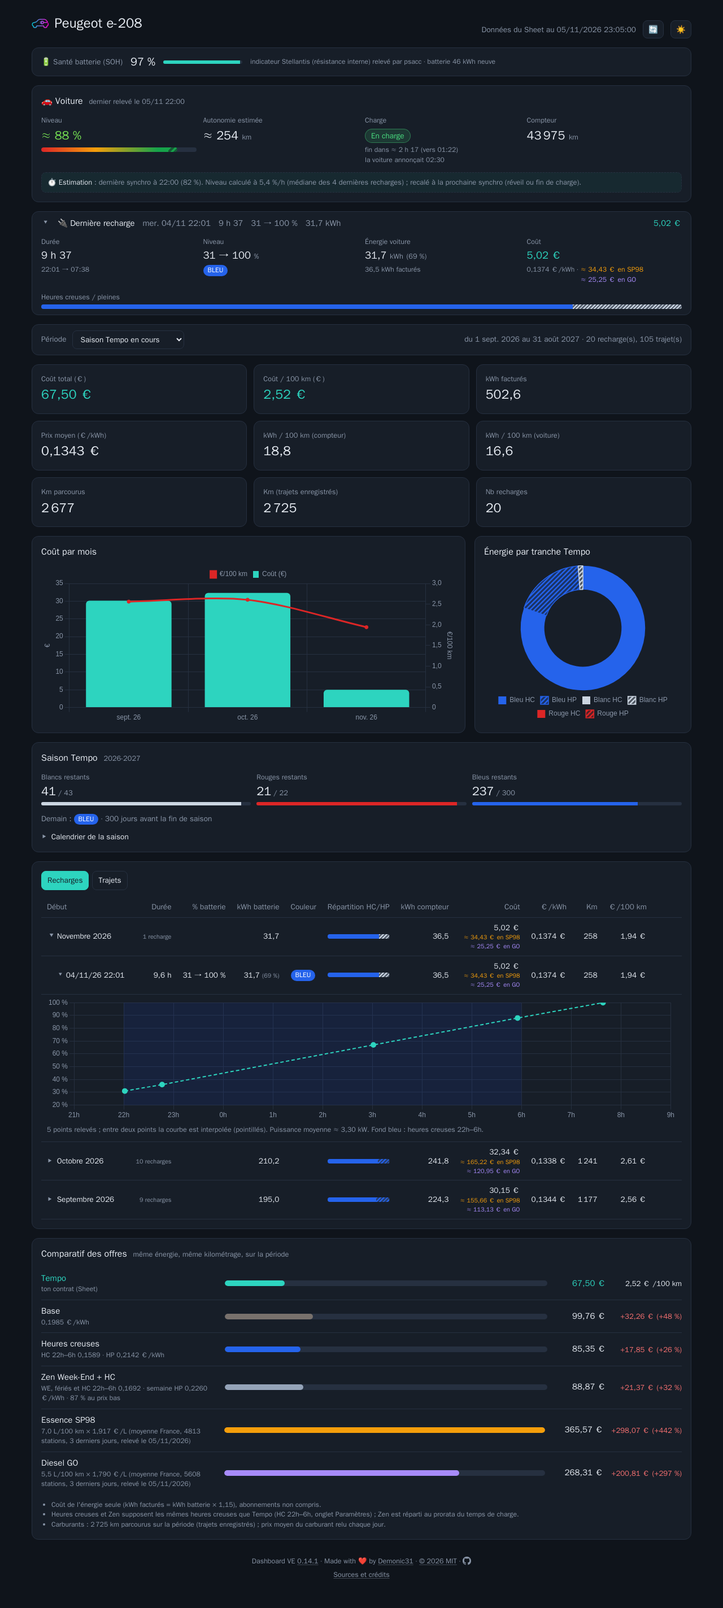
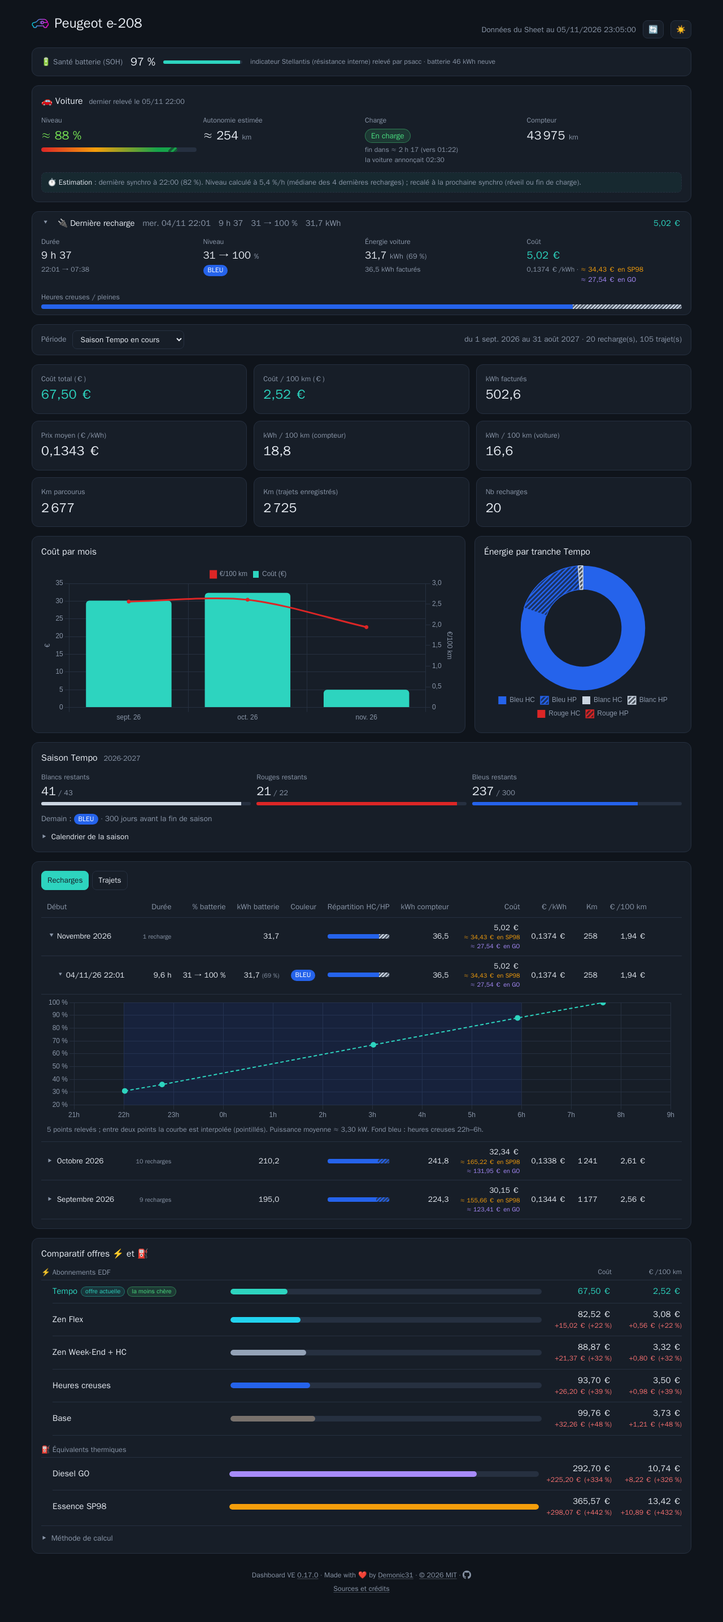
feat(dashboard): offre Zen Flex et calendrier des jours Sobriété
- Nouvelle offre Zen Flex dans le comparatif : 17 h creuses par jour, jours Éco 🟢
  et Sobriété 🟠, quatre prix ZEN_FLEX_{ECO,SOB}_{HC,HP}_PRICE_KWH.
- FlexDays : calendrier Éco / Sobriété / Bonus lu dans l'API du site EDF (getOPMStatut,
  urlPlaasmaCommerce obligatoire) ; J et J+1 toutes les 10 min, rattrapage de l'historique
  depuis novembre 2023 (30 jours par passe, jours possibles seulement), gardé dans
  /data/zen-flex-days.json ; réponse non JSON ou code inconnu jamais interprétés.
- Jour pas encore lu : couleur Tempo (Rouge = Sobriété).
- Répartition de la période dans l'info-bulle des deux offres Zen ; calcul de
  Zen Week-End + HC aligné sur les autres offres (recharge sans heure de fin).
- Sources et crédits, méthode de calcul, README, .env.example, docker-compose.yml.
- Captures du README régénérées (jeu de démo avec Zen Flex et gazole à 6 L/100 km).

Refs #57

diff --git a/web/static/app.js b/web/static/app.js
@@ -163,6 +163,10 @@ function renderSources() {
     item("Google Sheet", "calcul des coûts (recharges, trajets, indicateurs, totaux par mois)", data.fetched_at ? `relu le ${stamp(data.fetched_at)}` : ""),
     item(`Tempo : ${link("https://www.api-couleur-tempo.fr", "api-couleur-tempo.fr")}`, "couleur des jours et saison Tempo",
       data.season?.fetched_at ? `relu le ${stamp(data.season.fetched_at)}` : ""),
+    data.offers?.flex_days ? item(`Zen Flex : ${link("https://particulier.edf.fr/fr/accueil/electricite-gaz/zen-flex.html", "particulier.edf.fr")}`,
+      "calendrier des jours Éco, Sobriété et Bonus (API du site EDF, non documentée)",
+      data.offers.flex_days.fetched_at ? `relu le ${stamp(data.offers.flex_days.fetched_at)} (${Object.keys(data.offers.flex_days.days).length} jours connus)`
+        : esc(data.offers.flex_days.error || "")) : "",
     item(`Carburants : ${link("https://www.prix-carburants.gouv.fr/rubrique/opendata/", "prix-carburants.gouv.fr")}`,
       "prix moyens du jour et archives journalières officielles" + (days ? ` (${days} jour${days > 1 ? "s" : ""} de recharge)` : ""), ...fuelLines),
   ].join("");
@@ -332,9 +336,6 @@ function lowShare(r, isLow) {
 }
 const hourOf = d => d.getHours() + d.getMinutes() / 60;
 const inHours = (h, [a, b]) => a > b ? h >= a || h < b : h >= a && h < b;
-// Zen Week-End + HC : prix bas le week-end, les jours fériés et en heures creuses (celles de Tempo) en semaine
-const zenLowShare = r => lowShare(r, d => inHours(hourOf(d), data.hc_hours.map(Number)) ||
-                                       d.getDay() === 0 || d.getDay() === 6 || isHoliday(d));
 // Option Heures creuses, plages saisonnalisées (Enedis, déploiement fin 2025 – 2027 ; 8 h de HC par jour).
 // Plages réelles fixées pour chaque compteur Linky : on retient 23h–7h l'hiver, et l'été 5 h la nuit (1h–6h)
 // plus 3 h l'après-midi (placées dans la fenêtre 11h–17h, sans effet sur des recharges de nuit).
@@ -343,6 +344,24 @@ const HCHP_SEASONS = { winter: { emoji: "❄", months: "nov.–mars", hours: 
 const hchpSeason = d => d.getMonth() >= 3 && d.getMonth() <= 9 ? HCHP_SEASONS.summer : HCHP_SEASONS.winter;
 const hchpLow = d => hchpSeason(d).hours.some(h => inHours(hourOf(d), h));
 const hoursLabel = hours => hours.map(([a, b]) => `${a}h–${b % 24}h`).join(", ").replace(/, ([^,]*)$/, " et $1");
+// Zen Flex : mêmes plages tous les jours (HP 8h–13h et 18h–20h, 17 h creuses) ; 20 jours Sobriété par an en semaine,
+// annoncés la veille. Calendrier lu par le serveur dans l'API EDF (offers.flex_days : {jour: eco|sobriete|bonus}) ;
+// un jour Sobriété n'est possible qu'en semaine, du 15 octobre au 15 avril ; un jour possible pas encore relu est
+// approché par la couleur Tempo (Rouge = Sobriété)
+const FLEX_HC = [[0, 8], [13, 18], [20, 24]];
+const flexHc = d => FLEX_HC.some(h => inHours(hourOf(d), h));
+const flexPossible = day => { const d = new Date(day + "T12:00:00"), md = day.slice(5);
+  return d.getDay() % 6 !== 0 && !isHoliday(d) && (md <= "04-15" || md >= "10-15"); };
+function flexSobriety() {
+  const known = data.offers?.flex_days?.days || {};
+  const red = new Set((data.colors || []).filter(c => c.color === "ROUGE").map(c => c.day));
+  const guessed = new Set();  // jours approchés par Tempo
+  return { guessed, isSob: day => {
+    if (!flexPossible(day)) return false;
+    if (day in known) return known[day] === "sobriete";
+    guessed.add(day); return red.has(day);
+  } };
+}
 
 // Tarif Tempo en vigueur à une date (dernière ligne de la grille du Sheet dont la date d'effet est passée) :
 // une ligne par couleur, HP puis HC
@@ -385,13 +404,58 @@ function renderOffers() {
            "\nPlages indicatives : les heures creuses sont fixées par Enedis pour chaque compteur Linky (voir Méthode de calcul)",
            hcKwh * o.hchp.hc + hpKwh * o.hchp.hp, "--bleu")
     : { name: "Heures creuses", missing: "HCHP_HC_PRICE_KWH / HCHP_HP_PRICE_KWH", group: "elec" });
+  // part de chaque catégorie d'une offre sur la période, en %, catégories vides omises
+  const split = (kwh, labels) => { const tot = kwh.reduce((a, b) => a + b, 0);
+    return tot ? "\n" + labels.map((l, i) => [Math.round(100 * kwh[i] / tot), l]).filter(([p]) => p)
+      .map(([p, l]) => `${p} % ${l}`).join(", ") + " sur la période" : ""; };
   if (o.zen?.low && o.zen?.high) {
-    let cost = 0;
-    rows.forEach(r => { const share = zenLowShare(r) ?? 1, kwh = num(r[C.kwh]);
-      cost += kwh * (share * o.zen.low + (1 - share) * o.zen.high); });
+    // kWh facturés répartis au prorata du temps de charge : semaine HC, week-end ou férié, semaine HP ;
+    // sans heure de fin, jour de début et tranches HC/HP Tempo de la recharge
+    const zk = [0, 0, 0];
+    rows.forEach(r => {
+      const kwh = num(r[C.kwh]), w = [0, 0, 0], start = new Date(r[C.start]), end = new Date(r[2]), step = 5 * 60e3;
+      if (end > start) for (let t = start.getTime() + step / 2; t < end.getTime(); t += step) {
+        const d = new Date(t);
+        w[d.getDay() % 6 === 0 || isHoliday(d) ? 1 : inHours(hourOf(d), data.hc_hours.map(Number)) ? 0 : 2]++;
+      }
+      const n = w[0] + w[1] + w[2], bat = [0, 1, 2, 3, 4, 5].reduce((a, i) => a + num(r[C.slots + i]), 0);
+      const hc = bat ? (num(r[C.slots]) + num(r[C.slots + 2]) + num(r[C.slots + 4])) / bat : 1;
+      const f = n ? w.map(x => x / n) : start.getDay() % 6 === 0 || isHoliday(start) ? [0, 1, 0] : [hc, 0, 1 - hc];
+      f.forEach((x, i) => { zk[i] += kwh * x; });
+    });
     list.push(elec("Zen Week-End + HC", `💼 Semaine HP ${fr(o.zen.high, 4)} · ${hcLabel} ${fr(o.zen.low, 4)} €/kWh` +
-      `\n🏖 Week-end et jours fériés ${fr(o.zen.low, 4)} €/kWh toute la journée`, cost, "--blanc-hc"));
+      `\n🏖 Week-end et jours fériés ${fr(o.zen.low, 4)} €/kWh toute la journée` +
+      split(zk, ["en heures creuses", "le week-end ou un jour férié", "en heures pleines"]),
+      (zk[0] + zk[1]) * o.zen.low + zk[2] * o.zen.high, "--blanc-hc"));
   } else list.push({ name: "Zen Week-End + HC", missing: "ZEN_LOW_PRICE_KWH / ZEN_HIGH_PRICE_KWH", group: "elec" });
+  const fx = o.zen_flex;
+  if (fx && [...fx.eco, ...fx.sob].every(v => v)) {
+    // kWh facturés répartis au prorata du temps de charge entre HC/HP et jour Éco/Sobriété (5 min par 5 min) ;
+    // sans heure de fin, tranches Tempo de la recharge (Rouge = Sobriété)
+    const flex = flexSobriety();
+    let cost = 0;
+    const fk = [0, 0, 0, 0];
+    rows.forEach(r => {
+      const slots = [0, 1, 2, 3, 4, 5].map(i => num(r[C.slots + i]) * coef), kwh = slots.reduce((a, b) => a + b, 0);
+      const start = new Date(r[C.start]), end = new Date(r[2]), step = 5 * 60e3, w = [0, 0, 0, 0];  // éco HC/HP, sob HC/HP
+      if (end > start) for (let t = start.getTime() + step / 2; t < end.getTime(); t += step) {
+        const d = new Date(t), sob = flex.isSob(iso(d));
+        w[(sob ? 2 : 0) + (flexHc(d) ? 0 : 1)]++;
+      }
+      const n = w.reduce((a, b) => a + b, 0);
+      // sans heure de fin : tranches Tempo de la recharge, jour Sobriété selon le calendrier (Rouge sinon)
+      const sobDay = typeof r[C.start] === "string" && flex.isSob(r[C.start].slice(0, 10));
+      const k = n ? w.map(x => kwh * x / n) : sobDay ? [0, 0, slots[0] + slots[2] + slots[4], slots[1] + slots[3] + slots[5]]
+                                                  : [slots[0] + slots[2] + slots[4], slots[1] + slots[3] + slots[5], 0, 0];
+      cost += k[0] * fx.eco[0] + k[1] * fx.eco[1] + k[2] * fx.sob[0] + k[3] * fx.sob[1];
+      k.forEach((x, i) => { fk[i] += x; });
+    });
+    list.push(elec("Zen Flex", `🟢 Éco HP ${fr(fx.eco[1], 4)} · HC ${hoursLabel(FLEX_HC)} ${fr(fx.eco[0], 4)} €/kWh` +
+      `\n🟠 Sobriété HP ${fr(fx.sob[1], 4)} · HC ${fr(fx.sob[0], 4)} €/kWh` +
+      split(fk, ["en Éco HC", "en Éco HP", "en Sobriété HC", "en Sobriété HP"]) +
+      (flex.guessed.size ? `\nJours Sobriété : calendrier EDF, ${flex.guessed.size} jour(s) pas encore relu(s) approché(s) par Tempo (voir Méthode de calcul)`
+                         : "\nJours Sobriété : calendrier EDF (voir Méthode de calcul)"), cost, "--flex"));
+  } else list.push({ name: "Zen Flex", missing: "ZEN_FLEX_ECO_HC_PRICE_KWH / ZEN_FLEX_ECO_HP_PRICE_KWH / ZEN_FLEX_SOB_HC_PRICE_KWH / ZEN_FLEX_SOB_HP_PRICE_KWH", group: "elec" });
   (o.fuels?.length ? o.fuels : [{ key: "sp98", name: "SP98" }]).forEach(f => {
     const cur = f.current, color = f.key === "gazole" ? "--diesel" : "--petrol";
     if (num(f.l100) && cur && !cur.error)
@@ -438,7 +502,10 @@ function renderOffers() {
       les 3 h de l'après-midi placées arbitrairement dans la fenêtre 11h–17h, sans effet sur des recharges de nuit.
       Les heures creuses réelles sont fixées par Enedis pour chaque compteur Linky et diffèrent d'un logement à l'autre : le résultat reste une estimation.</li>
     <li>Zen suppose les mêmes heures creuses que Tempo (${hcLabel}, onglet Paramètres).</li>
-    <li>Heures creuses et Zen sont répartis au prorata du temps de charge.</li>
+    <li>Zen Flex : 17 h creuses par jour (HP 8h–13h et 18h–20h), et 20 jours Sobriété par an en semaine, de mi-octobre à mi-avril, annoncés la veille par EDF.
+      Leur calendrier est lu dans l'API du site EDF (non documentée, susceptible de changer) et gardé en cache ;
+      un jour pas encore relu est approché par la couleur Tempo (Rouge = Sobriété).</li>
+    <li>Heures creuses, Zen et Zen Flex sont répartis au prorata du temps de charge.</li>
     <li>€/100 km : Tempo selon l'indicateur du Sheet (km compteur entre recharges) ; les autres offres d'électricité au même kilométrage ; carburants = consommation × prix moyen.</li>
     <li>Coût des carburants : ${fr(km, 0)} km parcourus sur la période (${kmSource}) ; prix moyen du carburant relu chaque jour.</li></ul></details>`;
   el.querySelector("details").addEventListener("toggle", e => { offerNotesOpen = e.target.open; });

diff --git a/web/static/index.html b/web/static/index.html
@@ -16,19 +16,19 @@
   :root {
     --bg: #f4f6f9; --card: #ffffff; --text: #1d2430; --muted: #6b7585; --border: #e3e7ee;
     --accent: #0f766e; --bleu: #2563eb; --bleu-hc: #1e40af; --blanc: #94a3b8; --blanc-hc: #64748b; --blanc-txt: #475569;
-    --rouge: #dc2626; --rouge-hc: #991b1b; --base: #a8a29e; --petrol: #b45309; --diesel: #7c3aed; --good: #15803d; --bad: #b91c1c; --lvl-l: 40%;
+    --rouge: #dc2626; --rouge-hc: #991b1b; --base: #a8a29e; --petrol: #b45309; --diesel: #7c3aed; --flex: #0891b2; --good: #15803d; --bad: #b91c1c; --lvl-l: 40%;
     --shadow: 0 1px 3px rgba(15, 23, 42, .08); --logo: none; color-scheme: light;
   }
   @media (prefers-color-scheme: dark) {
     :root:not([data-theme="light"]) {
       --bg: #0f141b; --card: #171e28; --text: #e6ebf2; --muted: #8a96a8; --border: #263040;
-      --accent: #2dd4bf; --blanc: #cbd5e1; --blanc-hc: #94a3b8; --blanc-txt: #cbd5e1; --base: #78716c; --petrol: #f59e0b; --diesel: #a78bfa; --good: #4ade80; --bad: #f87171; --lvl-l: 60%;
+      --accent: #2dd4bf; --blanc: #cbd5e1; --blanc-hc: #94a3b8; --blanc-txt: #cbd5e1; --base: #78716c; --petrol: #f59e0b; --diesel: #a78bfa; --flex: #22d3ee; --good: #4ade80; --bad: #f87171; --lvl-l: 60%;
       --shadow: none; --logo: invert(1); color-scheme: dark;
     }
   }
   :root[data-theme="dark"] {
     --bg: #0f141b; --card: #171e28; --text: #e6ebf2; --muted: #8a96a8; --border: #263040;
-    --accent: #2dd4bf; --blanc: #cbd5e1; --blanc-hc: #94a3b8; --blanc-txt: #cbd5e1; --base: #78716c; --petrol: #f59e0b; --diesel: #a78bfa; --good: #4ade80; --bad: #f87171; --lvl-l: 60%;
+    --accent: #2dd4bf; --blanc: #cbd5e1; --blanc-hc: #94a3b8; --blanc-txt: #cbd5e1; --base: #78716c; --petrol: #f59e0b; --diesel: #a78bfa; --flex: #22d3ee; --good: #4ade80; --bad: #f87171; --lvl-l: 60%;
     --shadow: none; --logo: invert(1); color-scheme: dark;
   }
   * { box-sizing: border-box; }

diff --git a/web/dashboard_server.py b/web/dashboard_server.py
@@ -231,6 +231,107 @@ class TempoSeason:
             return {"error": str(exc)}
 
 
+# Calendrier Zen Flex : API (non documentée) du site particulier.edf.fr, jour J et J+1 pour une date donnée ;
+# urlPlaasmaCommerce est obligatoire (sans lui, page d'erreur HTML). Historique disponible depuis le lancement.
+ZEN_FLEX_API = "https://particulier.edf.fr/services/rest/opm/getOPMStatut"
+ZEN_FLEX_CODES = {"RAS": "eco", "ZENF_PM": "sobriete", "ZENF_BONIF": "bonus", "ZENF_BONUS": "bonus"}
+ZEN_FLEX_START = date(2023, 11, 1)
+
+
+def flex_candidate(day):
+    """Jour où un jour Sobriété est possible : en semaine, du 1er janvier au 15 avril ou du 15 octobre au 31 décembre."""
+    return day.weekday() < 5 and (day.month < 4 or (day.month == 4 and day.day <= 15)
+                                  or (day.month == 10 and day.day >= 15) or day.month > 10)
+
+
+class FlexDays:
+    """Type de chaque jour de l'option Zen Flex (eco, sobriete, bonus), lu dans l'API EDF.
+
+    Une tâche de fond relit toutes les 10 minutes J et J+1 (publié dans la journée), puis rattrape au plus 30 jours
+    manquants de l'historique, du plus récent au plus ancien, une requête par seconde ; seuls les jours où un jour
+    Sobriété est possible sont demandés (les autres sont Éco par règle). Les jours lus sont gardés dans
+    DATA_DIR/zen-flex-days.json ({jour: type}), table qui passera telle quelle en SQLite. Une réponse qui n'est pas
+    du JSON (pare-feu EDF) ou un code inconnu ne sont jamais interprétés : le jour reste inconnu, et la page se rabat
+    sur les jours Rouges Tempo.
+    """
+
+    def __init__(self, data_dir, interval=600, batch=30):
+        self.file = os.path.join(data_dir, "zen-flex-days.json") if data_dir else None
+        self.days, self.error, self.fetched_at = {}, None, None
+        self.interval, self.batch, self.lock = interval, batch, threading.Lock()
+        self.http = requests.Session()
+        self.http.headers["Accept"] = "application/json"
+        if self.file and os.path.isfile(self.file):
+            try:
+                with open(self.file, encoding="utf-8") as f:
+                    self.days = json.load(f)
+                log.info("jours Zen Flex : %d jour(s) en cache", len(self.days))
+            except (OSError, ValueError) as exc:
+                log.warning("jours Zen Flex : cache illisible (%s)", exc)
+        threading.Thread(target=self.loop, daemon=True, name="zen-flex").start()
+
+    def fetch(self, day):
+        """{jour: type} pour `day` et le lendemain (lendemain absent tant qu'il n'est pas publié)."""
+        resp = self.http.get(ZEN_FLEX_API, timeout=20, params={
+            "dateRelevant": day.isoformat(), "urlPlaasmaCommerce": "https://api-commerce.edf.fr"})
+        resp.raise_for_status()
+        if "json" not in resp.headers.get("Content-Type", ""):
+            raise ValueError("réponse non JSON (pare-feu EDF ?)")
+        payload = resp.json()
+        out = {}
+        for key, when in (("couleurJourJ", day), ("couleurJourJ1", day + timedelta(days=1))):
+            kind = ZEN_FLEX_CODES.get(payload.get(key))
+            if kind:
+                out[when.isoformat()] = kind
+        return out
+
+    def missing(self):
+        day, out = date.today() - timedelta(days=1), []
+        while day >= ZEN_FLEX_START and len(out) < self.batch:
+            if flex_candidate(day) and day.isoformat() not in self.days:
+                out.append(day)
+            day -= timedelta(days=1)
+        return out
+
+    def save(self):
+        if self.file:
+            tmp = self.file + ".tmp"
+            with open(tmp, "w", encoding="utf-8") as f:
+                json.dump(self.days, f, sort_keys=True)
+            os.replace(tmp, self.file)
+
+    def loop(self):
+        while True:
+            found = {}  # gardé même si une requête du rattrapage échoue : la première erreur arrête la passe
+            try:
+                found.update(self.fetch(date.today()))
+                for day in self.missing():
+                    time.sleep(1)
+                    found.update(self.fetch(day))
+                self.error = None
+            except (requests.RequestException, ValueError) as exc:
+                self.error = str(exc)
+                log.warning("API Zen Flex : %s", exc)
+            if found:
+                with self.lock:
+                    changed = any(self.days.get(d) != k for d, k in found.items())
+                    self.days.update(found)
+                    if changed:
+                        try:
+                            self.save()
+                        except OSError as exc:
+                            log.warning("jours Zen Flex : écriture du cache impossible (%s)", exc)
+                self.fetched_at = datetime.now().astimezone().isoformat(timespec="seconds")
+                log.info("jours Zen Flex : %d jour(s) connus", len(self.days))
+            time.sleep(self.interval)
+
+    def get(self):
+        with self.lock:
+            days = dict(self.days)
+        return {"days": days, "since": ZEN_FLEX_START.isoformat(), "fetched_at": self.fetched_at,
+                **({"error": self.error} if self.error else {})}
+
+
 FUEL_API = ("https://data.economie.gouv.fr/api/explore/v2.1/catalog/datasets/"
             "prix-des-carburants-en-france-flux-instantane-v2/records")
 # Archives journalières officielles du site prix-carburants.gouv.fr (zip d'un XML, ~1 Mo) : prix du jour J
@@ -445,7 +546,9 @@ def offers_config():
     """Prix des options EDF à comparer avec Tempo et consommation de la voiture thermique de référence."""
     return {"base": env_price("BASE_PRICE_KWH"),
             "hchp": {"hc": env_price("HCHP_HC_PRICE_KWH"), "hp": env_price("HCHP_HP_PRICE_KWH")},
-            "zen": {"low": env_price("ZEN_LOW_PRICE_KWH"), "high": env_price("ZEN_HIGH_PRICE_KWH")}}
+            "zen": {"low": env_price("ZEN_LOW_PRICE_KWH"), "high": env_price("ZEN_HIGH_PRICE_KWH")},
+            "zen_flex": {"eco": [env_price("ZEN_FLEX_ECO_HC_PRICE_KWH"), env_price("ZEN_FLEX_ECO_HP_PRICE_KWH")],
+                         "sob": [env_price("ZEN_FLEX_SOB_HC_PRICE_KWH"), env_price("ZEN_FLEX_SOB_HP_PRICE_KWH")]}}
 
 
 def fuels_config():
@@ -672,7 +775,7 @@ def index_page(logo):
     return html.encode()
 
 
-def make_handler(mirror, season, fuel_prices, fuels, history, offers, battery_kwh, source, vehicle_name, gate, logo):
+def make_handler(mirror, season, fuel_prices, fuels, history, offers, battery_kwh, source, vehicle_name, gate, logo, flex_days):
     class Handler(BaseHTTPRequestHandler):
         server_version = "ev-dashboard"
 
@@ -797,7 +900,7 @@ def make_handler(mirror, season, fuel_prices, fuels, history, offers, battery_kw
                                 health=source.health(force=force), car=car_state, charge_curves=charge_curves,
                                 charge_estimate=charge_estimate(car_state, charge_curves),
                                 # carburants de référence avec leur prix du jour (si la consommation est connue)
-                                offers=dict(offers, fuels=[dict(f, current=fuel_prices[f["key"]].get() if f["l100"]
+                                offers=dict(offers, flex_days=flex_days.get() if flex_days else None, fuels=[dict(f, current=fuel_prices[f["key"]].get() if f["l100"]
                                                                 else None) for f in fuels]),
                                 # prix de chaque carburant le jour de chaque recharge (équivalent carburant)
                                 fuel_history=history.get({str(r[1])[:10] for r in sheet["charges"]["rows"]})
@@ -880,6 +983,7 @@ def main():
     fuel_prices = {f["key"]: FuelPrice(f["key"], departement) for f in fuels}
     history = FuelHistory([f["key"] for f in fuels if f["l100"]], departement, os.environ.get("DATA_DIR", "").strip())
     offers = offers_config()
+    flex_days = FlexDays(os.environ.get("DATA_DIR", "").strip()) if all(offers["zen_flex"]["eco"] + offers["zen_flex"]["sob"]) else None
     # Source de données de la marque (brands/<BRAND>/source.py)
     source = load_source(os.environ.get("BRAND") or "stellantis", os.path.join(APP_DIR, "brands"), os.environ)
     logo = CustomLogo(os.environ.get("DASHBOARD_LOGO"), os.environ.get("DASHBOARD_LOGO_INVERT", "") in ("1", "true", "oui"))
@@ -895,7 +999,7 @@ def main():
              ", ".join(f"{f['name']} {f['l100']} L/100 km" for f in fuels))
     ThreadingHTTPServer(("0.0.0.0", port), make_handler(mirror, season, fuel_prices, fuels, history, offers, env_price("BATTERY_KWH"), source,
                                                          os.environ.get("VEHICLE_NAME", "").strip(), gate,
-                                                         logo)).serve_forever()
+                                                         logo, flex_days)).serve_forever()
 
 
 if __name__ == "__main__":

diff --git a/tools/screenshots/gen_demo.py b/tools/screenshots/gen_demo.py
@@ -134,9 +134,11 @@ data = {
                       "median_rate": med, "median_count": 4},
     "charge_estimate": {"from_at": start_now, "from_level": round(level), "from_autonomy": round(2.9 * level), "rate": round(med, 3),
                         "source": "médiane des 4 dernières recharges", "target": 100, "car_end_at": "2026-11-06T01:30:40+00:00"},
-    "offers": {"base": 0.1985, "hchp": {"hc": 0.1589, "hp": 0.2142}, "zen": {"low": 0.1692, "high": 0.226},
+    "offers": {"base": 0.1985, "hchp": {"hc": 0.1589, "hp": 0.2142}, "zen": {"low": 0.1692, "high": 0.226}, "zen_flex": {"eco": [0.1595, 0.2142], "sob": [0.2142, 0.7467]},
+               "flex_days": {"days": {"2026-10-30": "eco", "2026-11-02": "eco", "2026-11-03": "sobriete", "2026-11-04": "eco",
+                                      "2026-11-05": "eco"}, "since": "2023-11-01", "fetched_at": now},
                "fuels": [{"key": "sp98", "name": "SP98", "l100": 7.0, "current": cur("sp98", "SP98")},
-                         {"key": "gazole", "name": "Gazole", "l100": 5.5, "current": cur("gazole", "GAZOLE")}]},
+                         {"key": "gazole", "name": "Gazole", "l100": 6, "current": cur("gazole", "GAZOLE")}]},
     "fuel_history": fuel_hist,
     "app": {"version": open(os.path.join(os.path.dirname(os.path.abspath(__file__)), "..", "..", "web", "VERSION")).read().strip(), "label": ""},
     "credit": {"group": "Stellantis", "name": "psa_car_controller", "url": "https://github.com/flobz/psa_car_controller",

diff --git a/README.md b/README.md
@@ -101,6 +101,8 @@ Chaque marque a sa synchro, qui remplit le Sheet au format commun (voir celle de
 | `BASE_PRICE_KWH` | vide | Prix TTC du kWh en option Base |
 | `HCHP_HC_PRICE_KWH` / `HCHP_HP_PRICE_KWH` | vide | Prix HC / HP de l'option Heures creuses (mêmes prix été comme hiver) |
 | `ZEN_LOW_PRICE_KWH` / `ZEN_HIGH_PRICE_KWH` | vide | Prix bas (week-end, fériés, HC semaine) / haut (HP semaine) de Zen Week-End + HC |
+| `ZEN_FLEX_ECO_HC_PRICE_KWH` / `ZEN_FLEX_ECO_HP_PRICE_KWH` | vide | Prix HC / HP des jours Éco de Zen Flex |
+| `ZEN_FLEX_SOB_HC_PRICE_KWH` / `ZEN_FLEX_SOB_HP_PRICE_KWH` | vide | Prix HC / HP des jours Sobriété de Zen Flex ; avec les 4 prix renseignés, le calendrier des jours Éco / Sobriété est lu dans l'API du site EDF (non documentée) et gardé dans le volume `/data` |
 | `BATTERY_KWH` | vide | Capacité de la batterie (kWh) : affiche dans le tableau des recharges les kWh batterie en % de la capacité (vide = pas de %) |
 | `PETROL_FUELS` | vide | Voiture(s) thermique(s) de référence : `carburant:consommation` en L/100 km, séparés par des virgules, ex. `sp98:7,gazole:5.5` (décimale avec un point). Carburants : `sp98`, `sp95`, `e10`, `e85`, `gazole` (affiché « GO »), `gplc` |
 | `PETROL_DEPARTEMENT` | vide | Code département pour le prix moyen ; vide = France entière |
@@ -134,9 +136,10 @@ Puis ouvrir `http://<LAN_IP>:8080`. La page affiche ce que le Sheet a calculé, 
   * **Tempo** : ton coût réel et ton €/100 km, calculés par le Sheet ; tarif de la grille de l'onglet `Paramètres` en vigueur à la fin de la période, en info-bulle ;
   * **Base** : kWh × `BASE_PRICE_KWH` ;
   * **Heures creuses** : nouvelles heures creuses saisonnalisées (déploiement Enedis fin 2025 – 2027, 8 h par jour), au prorata du temps de charge. Plages retenues : hiver (novembre → mars) 23h–7h ; été (avril → octobre) 1h–6h et 13h–16h. Les plages réelles sont fixées par Enedis pour chaque compteur Linky : le résultat reste une estimation. Recharge sans heure de fin : répartition HC/HP Tempo des colonnes `H:M` ;
-  * **Zen Week-End + HC** : prix bas le week-end, les jours fériés et en heures creuses en semaine, au prorata du temps de charge ;
+  * **Zen Week-End + HC** : prix bas le week-end, les jours fériés et en heures creuses (celles de Tempo) en semaine, au prorata du temps de charge ; répartition de la période en info-bulle ;
+  * **Zen Flex** : 17 h creuses par jour (HP 8h–13h et 18h–20h) et 20 jours Sobriété par an, au prorata du temps de charge. Le calendrier des jours Éco / Sobriété / Bonus est lu dans l'API du site EDF (non documentée, susceptible de changer) : J et J+1 toutes les 10 min, plus un rattrapage de l'historique depuis novembre 2023 (au plus 30 jours par passe, seulement les jours où un jour Sobriété est possible), gardé dans le volume `dashboard-data`. Un jour pas encore lu est approché par la couleur Tempo (Rouge = Sobriété) ;
   * **Essence / Diesel** : une ligne par carburant de `PETROL_FUELS` (ou `PETROL_FUEL`) ; km parcourus (le plus grand entre les trajets enregistrés et le compteur entre recharges) × consommation du carburant × son prix moyen (€/100 km = consommation × prix moyen). Ce prix est la moyenne des stations mises à jour ces 3 derniers jours, en France ou dans un département, d'après les [données officielles prix-carburants](https://data.economie.gouv.fr/explore/dataset/prix-des-carburants-en-france-flux-instantane-v2/), relues une fois par jour (et au redémarrage du conteneur ; le bouton 🔄 « Actualiser » ne les relit pas).
-* **Pied de page** : version installée (avec le libellé PREPROD en PREPROD) ; un clic ouvre le panneau **Nouveautés**, résumé de chaque version tiré de [`CHANGELOG.md`](CHANGELOG.md), avec un lien vers chaque note de version GitHub. Puis auteur, licence MIT et lien vers le code source, puis un lien **Sources et crédits**. Ce panneau liste les sources des données, chacune en lien avec ce qu'elle fournit et la date de sa dernière lecture : celle de la marque (psa_car_controller pour Stellantis), le Google Sheet, [api-couleur-tempo.fr](https://www.api-couleur-tempo.fr) et [prix-carburants.gouv.fr](https://www.prix-carburants.gouv.fr/rubrique/opendata/) ; puis les bibliothèques (Chart.js) et le projet. Les panneaux se ferment avec ✕, Échap ou le bouton retour du téléphone. La version vient de [`web/VERSION`](web/VERSION) ; à chaque release, mettre à jour ce fichier et ajouter la version en tête de `CHANGELOG.md`.
+* **Pied de page** : version installée (avec le libellé PREPROD en PREPROD) ; un clic ouvre le panneau **Nouveautés**, résumé de chaque version tiré de [`CHANGELOG.md`](CHANGELOG.md), avec un lien vers chaque note de version GitHub. Puis auteur, licence MIT et lien vers le code source, puis un lien **Sources et crédits**. Ce panneau liste les sources des données, chacune en lien avec ce qu'elle fournit et la date de sa dernière lecture : celle de la marque (psa_car_controller pour Stellantis), le Google Sheet, [api-couleur-tempo.fr](https://www.api-couleur-tempo.fr), le calendrier Zen Flex d'EDF et [prix-carburants.gouv.fr](https://www.prix-carburants.gouv.fr/rubrique/opendata/) ; puis les bibliothèques (Chart.js) et le projet. Les panneaux se ferment avec ✕, Échap ou le bouton retour du téléphone. La version vient de [`web/VERSION`](web/VERSION) ; à chaque release, mettre à jour ce fichier et ajouter la version en tête de `CHANGELOG.md`.
 
 Le serveur relit le Sheet au plus toutes les `DASHBOARD_CACHE_SECONDS`. Le bouton 🔄 (Actualiser) force la relecture. Le compte de service n'y a qu'un accès en lecture.
 

diff --git a/CHANGELOG.md b/CHANGELOG.md
@@ -4,6 +4,10 @@ Résumé de chaque version, affiché dans le dashboard (clic sur le numéro de v
 
 Format : un titre `## <version> — <AAAA-MM-JJ>` par version, puis des puces `- ` d'une ligne (`**gras**` et `` `code` `` acceptés).
 
+## 0.17.0 — 2026-11-06
+- **Offre Zen Flex** dans le comparatif : jours Éco 🟢 et Sobriété 🟠, calendrier des jours Sobriété lu chez EDF (jours Rouges Tempo en attendant).
+- **Répartition de la période** dans l'info-bulle des deux offres Zen.
+
 ## 0.16.0 — 2026-11-06
 - **Nouvelles heures creuses** pour l'option Heures creuses du comparatif : plages d'été (☀ 1h–6h et 13h–16h) et d'hiver (❄ 23h–7h), part de la période en heures creuses dans l'info-bulle ; les heures creuses réelles dépendent du compteur Linky.
 
